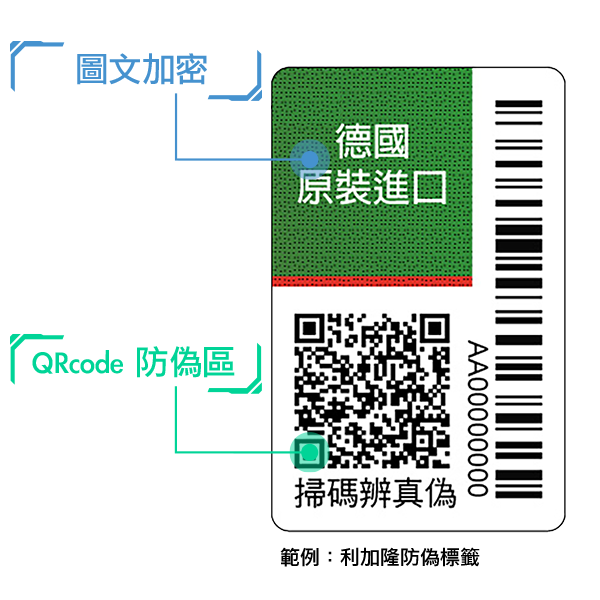
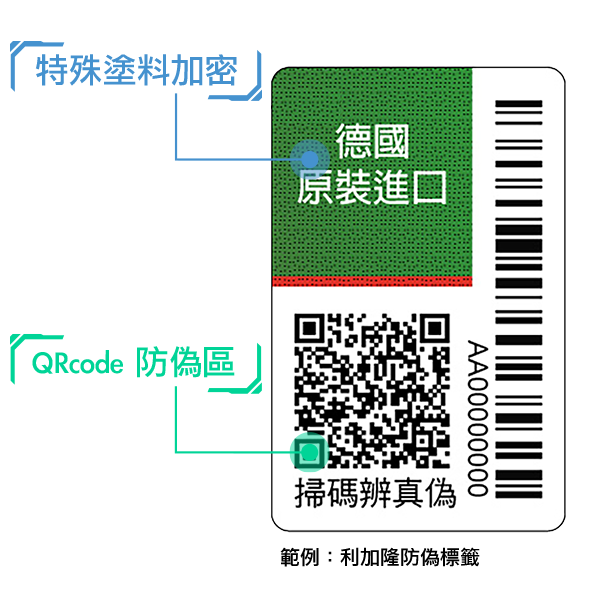
文字修改更新

Changed region(s): [[0.06, 0.09, 0.42, 0.15]]

diff --git a/discern.html b/discern.html
@@ -57,8 +57,8 @@
     <div class="description">
       <div class="tit"></div>
       <p>
-        雷射認證防偽標籤主要分成兩個區域<br />
-        雷射防偽區提供目視辨視<br />QRcode防偽區提供數位辨識<br />
+        科技認證防偽標籤主要分成兩個區域<br />
+        科技防偽區提供科技掃描槍辨視<br />QRcode防偽區提供數位辨識<br />
         雙重防護讓消費者更安心
       </p>
       <div class="demobox">
